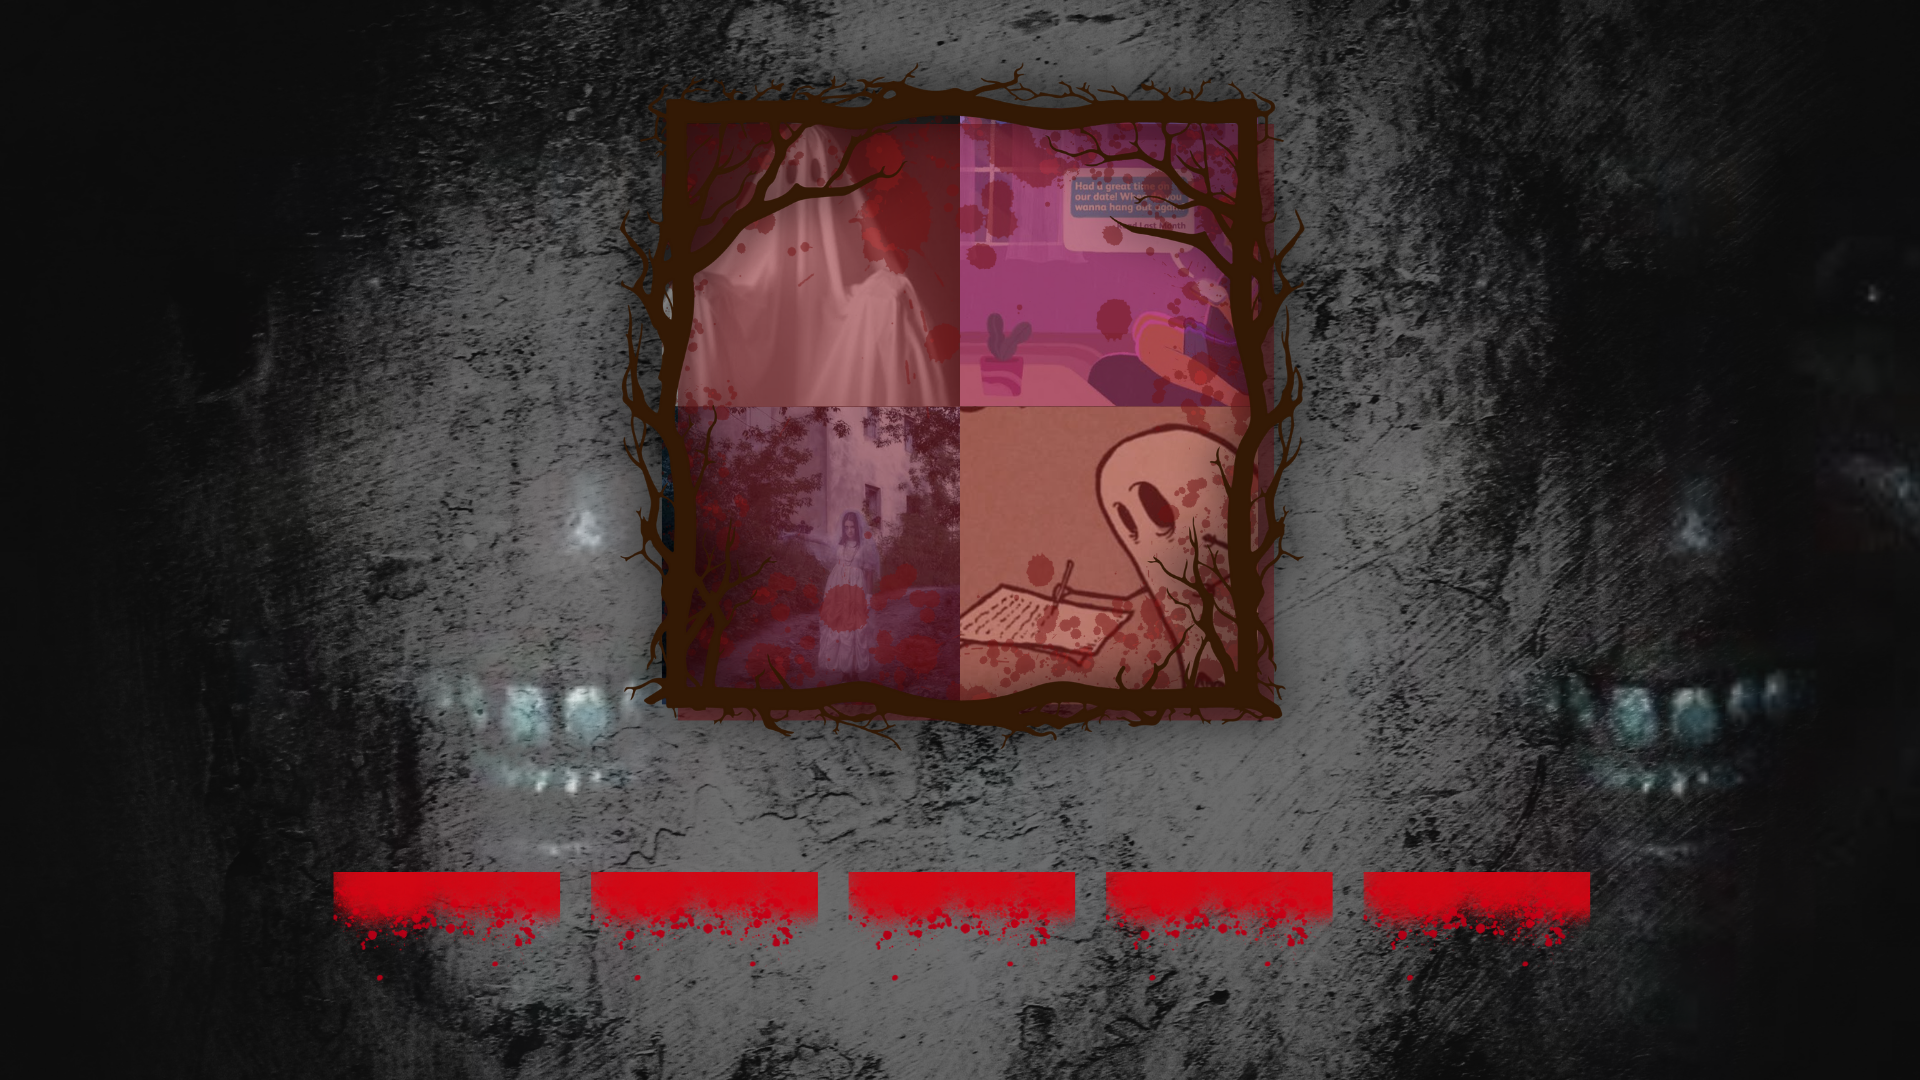
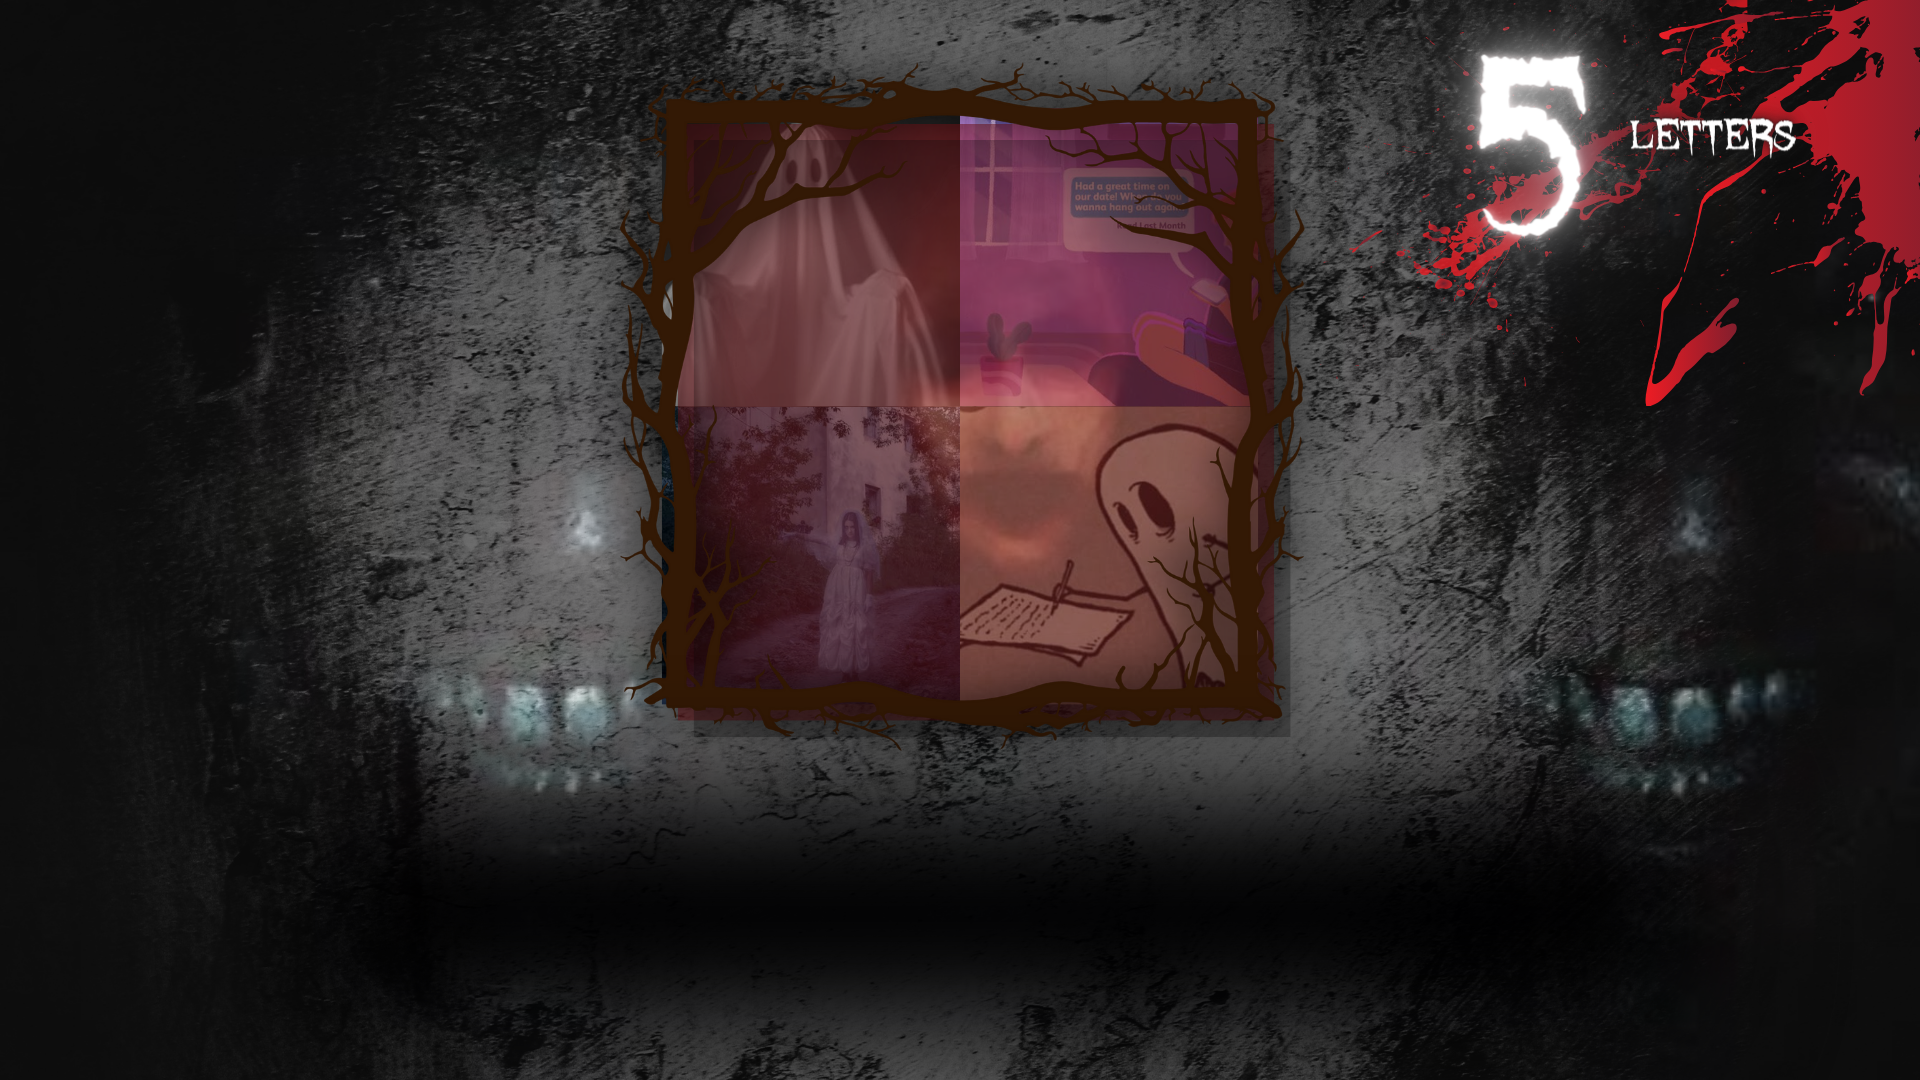
tired :(

diff --git a/potion.py b/potion.py
@@ -1,0 +1,118 @@
+from direct.task import Task
+from panda3d.core import *
+from direct.gui.DirectGui import *
+from direct.interval.LerpInterval import *
+from direct.interval.IntervalGlobal import *
+import gametext
+import time
+
+KB_BUTTON = KeyboardButton.ascii_key
+KB = KeyboardButton
+
+class Potion():
+
+	numPics = 5
+	# :)
+	order = [1, 2, 3, 4, 5]
+	gameFinished = False
+	num = 1
+
+	def potion(self, game, l2):
+		game.textObjects.append(l2.timeTxtNode)
+		l2.timeTxtNode.setColorScale(1, 1, 1, 0)
+		game.ptRunning = True
+		game.mouseLetGo = True
+		game.speedStop = True
+		gametext.Text.hideText(game.game_text, game)
+		game.setBarVisibility(False)
+		game.scaleFactorPotion = 2
+		game.cm = CardMaker('card')
+		game.potionImg = game.aspect2d.attachNewNode(game.cm.generate())
+		game.potionImg.setScale((16/9)*game.scaleFactorPotion, 1, game.scaleFactorPotion)
+
+		game.tex = game.loader.loadTexture('assets/img/l2/potion/' + str(self.num) + '.png')
+		game.potionImg.setTexture(game.tex)
+		game.potionImg.setColorScale(1, 1, 1, 0)
+		game.potionImg.setTransparency(True)
+
+		if (self.num == 1):
+			game.potionButtons = []
+			ingredients = [(-1.3, 0, -0.5), (-0.85, 0, -0.2), (0.85, 0, -0.2), (1.3, 0, -0.5), (-0.85, 0, -0.7)]
+
+			i = 1
+			for item in ingredients:
+				image = DirectButton(command=self.checkAnswer, extraArgs=[self, game, i, l2], frameTexture=game.loader.loadTexture('assets/img/l2/potion/ing/' + str(i) + '.png'), pos=item, scale=(0.25), relief='flat', pressEffect=0, frameSize=(-1, 1, -1, 1))
+				image.setTransparency(True)
+				game.potionButtons.append(image)
+				i += 1
+
+
+		# these are the centers of the image
+		game.potion_x = (-16/9/2)*game.scaleFactorPotion
+		game.potion_y = -0.5*game.scaleFactorPotion
+
+		game.potionImg.setPos(game.potion_x, 0, game.potion_y)
+		game.potionImg.setTransparency(TransparencyAttrib.MAlpha)
+
+		self.potionItems = [game.potionImg, *game.potionButtons]
+
+		animItem = []
+		for node in self.potionItems:
+			animItem.append(LerpColorScaleInterval(node, 1.5, (1, 1, 1, 1), (1, 1, 1, 0)))
+		anim = Parallel(*animItem, name="anim")
+		anim.start()
+
+	def checkAnswer(self, game, i, l2):
+		print(i, self.order[self.num-1])
+		if (i == self.order[self.num-1]):
+			game.potionButtons[self.num-1].removeNode()
+			if (self.num >= self.numPics):
+				self.cleanUpGame(self, game, l2)
+				return
+			self.num += 1
+			game.tex = game.loader.loadTexture('assets/img/l2/potion/' + str(self.num) + '.png')
+			game.potionImg.setTexture(game.tex)
+			pickup = game.loader.loadSfx('assets/sound/pickup.wav')
+			pickup.setLoop(False)
+			pickup.setVolume(game.volume)
+			pickup.play()
+		else:
+			wrong = game.loader.loadSfx("assets/sound/wrong.mp3")
+			wrong.setVolume(game.volume)
+			wrong.play()
+			
+	def cleanUpGame(self, game, l2):
+		correct = game.loader.loadSfx("assets/sound/correct.mp3")
+		correct.setVolume(game.volume)
+		correct.play()
+		game.game_text.itcText.setTextColor(1, 1, 1, 1)
+		self.popout = LerpFunc(self.fadeOut,
+            extraArgs=[self, game],
+            fromData=1,
+            toData=0,
+            duration=0.25,
+			blendType='easeOut',
+            name="fadeo")
+		self.popout.start()
+		game.ptRunning = False
+		game.mouseLetGo = False
+		game.speedStop = False
+		gametext.Text.showText(game.game_text, game)
+		game.setBarVisibility(True)
+		l2.nextLevel(l2, game)
+	
+	def fadeOut(t, self, game):
+		if (t <= 0):
+			for node in self.potionItems:
+				node.removeNode()
+			return
+		try:
+			for node in self.potionItems:
+				node.setColorScale(1, 1, 1, t)
+		except:
+			pass
+
+	#def setFocus(self, game, focus):
+	#	pass
+
+pt = Potion

diff --git a/l2.py b/l2.py
@@ -11,6 +11,7 @@ import r2
 import r3
 import r4
 import r5
+import potion as pt
 
 KB_BUTTON = KeyboardButton.ascii_key
 KB = KeyboardButton
@@ -23,6 +24,7 @@ class Level2():
 	r3 = r3.r3
 	r4 = r4.r4
 	r5 = r5.r5
+	pt = pt.pt
 
 	cutsceneDone = False
 	def l2Cutscene(self, game, task):
@@ -115,8 +117,9 @@ class Level2():
 		
 		if (self.levelDone):
 			self.deltaTime = task.time - self.timeEnd
-			if (self.deltaTime >= 1):
-				self.nextLevel(self, game)
+			if (self.deltaTime >= 1 and not game.ptRunning and not game.ptDone):
+				#self.nextLevel(self, game)
+				pt.Potion.potion(self.pt, game, self)
 
 		if (not self.l2_1stInit):
 			self.l2_1stInit = True
@@ -213,7 +216,7 @@ class Level2():
 			game.textObjects.remove(self.timeTxtNode)
 			self.l2Init = True
 
-		if (self.l2Init):
+		if (self.l2Init and not game.ptRunning and not game.ptDone):
 			game.timeElapsed = task.time - game.timeStart
 			timeMinutes = math.floor(game.timeElapsed/60)
 			timeSeconds = math.floor(game.timeElapsed)
@@ -237,8 +240,7 @@ class Level2():
 
 	def nextLevel(self, game):
 		game.game_text.itmText.setTextColor(1, 1, 1, 1)
-		game.game_text.itmText.setText("Items Obtained:")
-		game.textObjects.append(self.timeTxtNode)
+		game.game_text.itmText.setText("Keys Obtained:")
 		game.render.setColorScale(1, 1, 1, 1)
 		game.unloadScene()
 		game.loadScene("assets/models/msu3.glb", (16.47, -78.8, -0.45), (0, 0, 1000.5), customTask=game.missionLevel3, collisionMap="assets/collisionmaps/msu3.glb", noCache=True)
@@ -247,7 +249,7 @@ class Level2():
 	itemNo = 0
 	def addItem(self, game, item):
 		self.itemNo += 1
-		image = OnscreenImage(image='assets/img/l2/collect/' + item +'.png', pos=(1.18-(self.itemNo*0.25), 0, 0.7), scale=(0.15))
+		image = OnscreenImage(image='assets/img/l2/collect/' + item +'.png', pos=(1.18-(self.itemNo*0.25), 0, 0.7), scale=(0.125))
 		image.setTransparency(TransparencyAttrib.MAlpha)
 		game.itemsImg.append(image)
 

diff --git a/anagram.py b/anagram.py
@@ -77,11 +77,32 @@ class Anagram():
 	def nextAnagram(self, game, l2):
 		self.num += 1
 		if (self.num > len(self.answers)):
-			self.clearAnagrams(self, game)
+			self.finalAnagram(self, game)
 			return
 		for node in self.anagramItems:
 			node.remove_node()
 		self.anagram(self, game, l2)
+
+	def finalAnagram(self, game):
+		game.acceptOnce("e", self.clearAnagrams, [self, game])
+		for node in self.anagramItems:
+			node.remove_node()
+		game.scaleFactorAnagram = 7/4
+		game.cm = CardMaker('card')
+		game.anagramImg = game.aspect2d.attachNewNode(game.cm.generate())
+		game.anagramImg.setScale((16/9)*game.scaleFactorAnagram, 1, game.scaleFactorAnagram)
+
+		game.tex = game.loader.loadTexture('assets/media/l2/6.png')
+		game.anagramImg.setTexture(game.tex)
+
+		# these are the centers of the image
+		game.anagram_x = (-16/9/2)*game.scaleFactorAnagram
+		game.anagram_y = -0.5*game.scaleFactorAnagram
+
+		game.anagramImg.setPos(game.anagram_x, 0, game.anagram_y)
+		game.anagramImg.setTransparency(TransparencyAttrib.MAlpha)
+
+		self.anagramItems = [game.anagramImg]
 
 	def clearAnagrams(self, game):
 		dismiss = game.loader.loadSfx("assets/sound/dismiss.mp3")

diff --git a/r1.py b/r1.py
@@ -44,7 +44,8 @@ class Room1():
 				hi = i - 3
 			else:
 				hi = i
-			image = DirectButton(command=self.checkAnswer, extraArgs=[self, game, i, l2], frameTexture=game.loader.loadTexture('assets/img/l2/mensa/' + str(i) + '.png'), pos=((hi*0.7)-1.4, 0, n), scale=(0.33), relief='flat', pressEffect=0, frameSize=(-1, 1, -1, 1))
+			tex = (game.loader.loadTexture('assets/img/l2/mensa/' + str(i) + '.png'), game.loader.loadTexture('assets/img/l2/mensa/' + str(i) + 'h.png'), game.loader.loadTexture('assets/img/l2/mensa/' + str(i) + 'h.png'), game.loader.loadTexture('assets/img/l2/mensa/' + str(i) + '.png'))
+			image = DirectButton(command=self.checkAnswer, extraArgs=[self, game, i, l2], frameTexture=tex, pos=((hi*0.7)-1.4, 0, n), scale=(0.33), relief='flat', pressEffect=0, frameSize=(-1, 1, -1, 1))
 			image.setTransparency(True)
 			image.setColorScale(1, 1, 1, 0)
 			game.mensaButtons.append(image)

diff --git a/r4.py b/r4.py
@@ -88,6 +88,20 @@ class Room4():
 				game.sceneObjects.remove(guessText)
 				game.textObjects.remove(guessText)
 				self.wordSearchItems.append(guessText)
+				highlight = game.aspect2d.attachNewNode(game.cm.generate())
+				highlight.setScale((16/9)*game.scaleFactorwordSearch, 1, game.scaleFactorwordSearch)
+
+				if (ans != 'justice'):
+					highlight.setTexture(game.loader.loadTexture('assets/img/l2/wordSearch/' + ans + '.png'))
+				highlight.setTransparency(True)
+
+				highlightx = (-16/9/2)*game.scaleFactorwordSearch
+				highlighty = -0.5*game.scaleFactorwordSearch
+		
+				highlight.setPos(highlightx, 0, highlighty)
+				highlight.setTransparency(TransparencyAttrib.MAlpha)
+				self.wordSearchItems.append(highlight)
+
 				self.answer.setFocus()
 				if (self.num >= len(self.ansOrig)):
 					self.cleanUpGame(self, game, l2)

diff --git a/game.py b/game.py
@@ -85,6 +85,7 @@ class Game(ShowBase):
 
 	speedStop = False
 	speed1 = 0.025
+	barsVisible = False
 
 	# 0: none
 	# 1: girl
@@ -126,22 +127,26 @@ class Game(ShowBase):
 	r3Running = False
 	r4Running = False
 	r5Running = False
+	ptRunning = False
 	r1Done = False
 	r2Done = False
 	r3Done = False
 	r4Done = False
 	r5Done = False
+	ptDone = False
 	def resetMinigames(self):
 		self.r1Running = False
 		self.r2Running = False
 		self.r3Running = False
 		self.r4Running = False
 		self.r5Running = False
+		self.ptRunning = False
 		self.r1Done = False
 		self.r2Done = False
 		self.r3Done = False
 		self.r4Done = False
 		self.r5Done = False
+		self.ptDone = False
 
 	mistakes = 0
 

diff --git a/mainMenu.py b/mainMenu.py
@@ -237,7 +237,8 @@ class MainMenu():
 		def backSettings():
 			for node in game.settingsItems:
 				node.removeNode()
-			game.setBarVisibility(True)
+			if (self.barsVisible):
+				game.setBarVisibility(True)
 			try:
 				for img in game.itemsImg:
 					img["scale"] = 0.15
@@ -262,6 +263,7 @@ class MainMenu():
 
 		game.speedStop = True
 
+		self.barsVisible = game.barsVisible
 		game.setBarVisibility(False)
 
 		game.settingsShow = True

diff --git a/bars.py b/bars.py
@@ -5,6 +5,7 @@ from direct.interval.IntervalGlobal import *
 class Bars():
 	def setBarVisibility(self, game, visible):
 		anim = []
+		game.barsVisible = visible
 		for bar in game.bars:
 			if (visible):
 				anim.append(LerpColorScaleInterval(bar, 0.25, (1, 1, 1, 1), bar.getColorScale(), blendType='easeOut'))

diff --git a/main.py b/main.py
@@ -1,5 +1,6 @@
 # Escape MSU (Mindanao State University, not the one in the US)
-# blame me for all the bad code :)
+# the coding skill differential from when this project started to now is really large
+# >50% of this is what i'd consider bad code now
 import game
 
 app = game.Game()

diff --git a/l3.py b/l3.py
@@ -81,6 +81,7 @@ class Level3():
 			game.items.append(item)
 			game.itemsImg.append(image)
 			i += 1
+		
 	
 	fadeInit = False
 	l3Init = False
